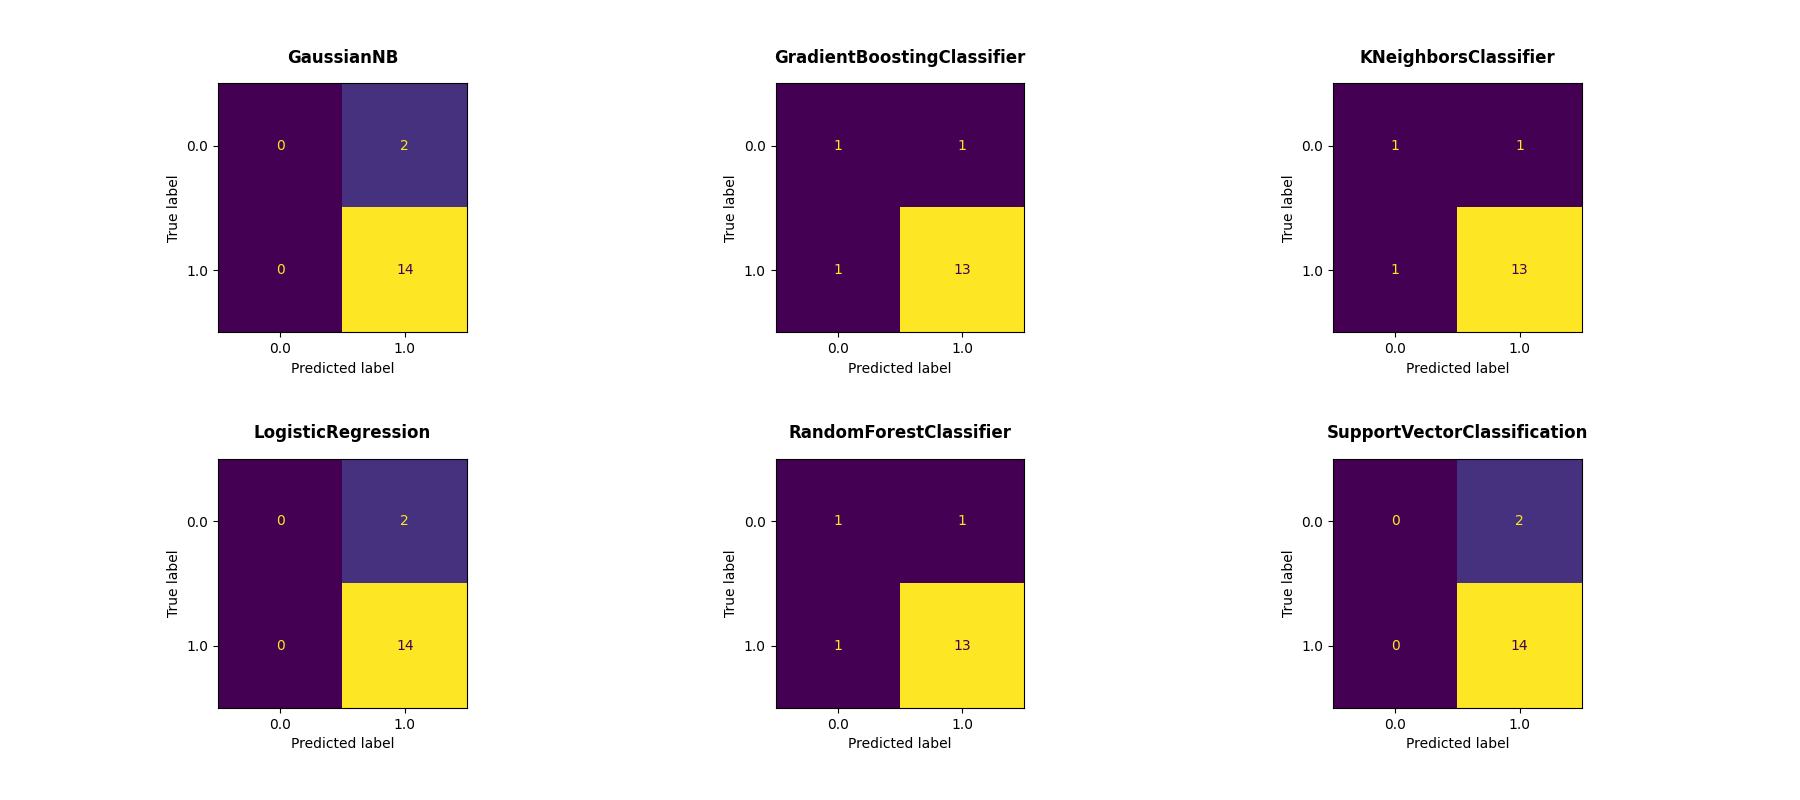
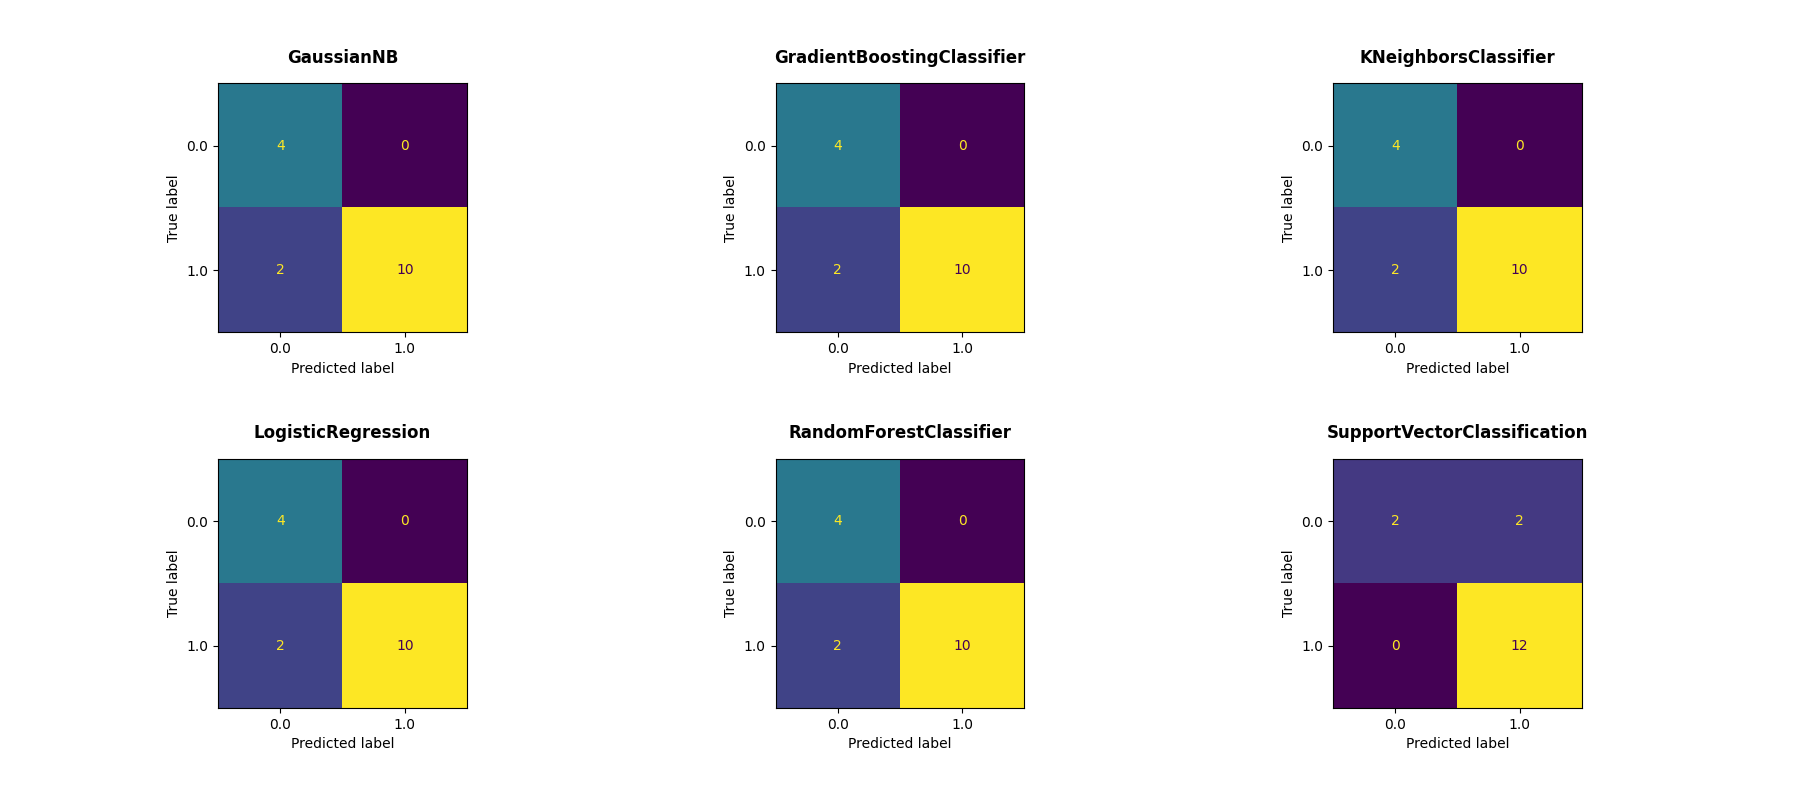
Andando 1 Jun

diff --git a/System/Modules/Mbuilding.py b/System/Modules/Mbuilding.py
@@ -35,17 +35,9 @@ def model_shake(DATA, X_TEST, Y_TEST, TARGET_COLUMN, TARGET_TY, Fast = True):
     if Fast:
         FEATURE_FLAGS = np.array([0,1])
 
-    if TARGET_TY == 'boolean':
-        model_stack = ['RandomForestClassifier', 'LogisticRegression', 'KNeighborsClassifier', 'SupportVectorClassification', 'GradientBoostingClassifier', 'GaussianNB']
-        # NORM_FLAGS = np.array([0])
-    if TARGET_TY == 'classes':
-        model_stack = ['RandomForestClassifier', 'KNeighborsClassifier', 'SupportVectorClassification']   
-        # NORM_FLAGS = np.array([0])
-    if TARGET_TY == 'continuous':
-        # model_stack = ['LinearRegression', 'RandomForestRegressor','QuantileRegressor', 'GradientBoostingRegressor', 'PassiveAggressiveRegressor', 'LassoLars', 'KNeighborsRegressor'] 
-        model_stack = ['LinearRegression', 'SupportVectorMachines', 'RandomForestRegressor','QuantileRegressor', 'GradientBoostingRegressor', 'PassiveAggressiveRegressor', 'LassoLars', 'KNeighborsRegressor'] 
-
-    # NORM_FLAGS = np.array([0]) #dont use normalization just for know
+    if TARGET_TY == 'boolean': model_stack = ['RandomForestClassifier', 'LogisticRegression', 'KNeighborsClassifier', 'SupportVectorClassification', 'GradientBoostingClassifier', 'GaussianNB']
+    if TARGET_TY == 'classes': model_stack = ['RandomForestClassifier', 'KNeighborsClassifier', 'SupportVectorClassification']   
+    if TARGET_TY == 'continuous': model_stack = ['LinearRegression', 'SupportVectorMachines', 'RandomForestRegressor','QuantileRegressor', 'GradientBoostingRegressor', 'PassiveAggressiveRegressor', 'LassoLars', 'KNeighborsRegressor'] 
 
     Feature_methods = ['Intrinsic method','Filter method','Wrapper method']
     Normalization_methods = ['No', 'Min-Max', 'Z-score']
@@ -54,18 +46,12 @@ def model_shake(DATA, X_TEST, Y_TEST, TARGET_COLUMN, TARGET_TY, Fast = True):
     operation_counter = 0
     number_operations = len(FEATURE_FLAGS)*(number_of_splits)*len(model_stack)*len(NORM_FLAGS) + len(FEATURE_FLAGS)*len(model_stack)*len(NORM_FLAGS)
 
-
-    # DATA = DATA.iloc[0:100] ####test CV
-
     X = DATA.loc[:, DATA.columns != TARGET_COLUMN]
     y = DATA[TARGET_COLUMN]
     columns_X = X.columns
 
-
     ### leave one out add ###
 
-
-    # breakpoint()
 
     ### Bootstraping ###  
     min_number_of_samples = 50
@@ -74,23 +60,20 @@ def model_shake(DATA, X_TEST, Y_TEST, TARGET_COLUMN, TARGET_TY, Fast = True):
         X, y = resample(X, y, n_samples=min_number_of_samples, replace=True) 
 
     ### Shuffle ###
-    #only shuffle the data
     X_frag1, X_frag2, y_frag1, y_frag2 = train_test_split(X, y, test_size=0.3, shuffle = True)
     X = np.append(X_frag1, X_frag2, axis=0)
     y = np.append(y_frag1, y_frag2, axis=0)
-    # X[:, 0] = np.arange(1, 101) ####test CV 
-
-##########################################################################
-
 
     ### Step 2: Cross Validation (FIRST STEP)###   
     samples_of_valid = int(len(X)/number_of_splits)
     for shift_idx in range(number_of_splits): 
         print('\nshift_idx '+str(shift_idx))
+
         X_train, X_valid, y_train, y_valid = train_test_split(X, y, test_size=samples_of_valid, random_state=0, shuffle = False)
         if TARGET_TY == 'classes' or TARGET_TY == 'boolean': #quick solve for HDwithCM, solve in general!!!
             y_train = y_train.astype(int)
             y_valid = y_valid.astype(int)
+
         #shift data
         X = np.roll(X, samples_of_valid, axis=0)
         y = np.roll(y, samples_of_valid, axis=0)
@@ -132,8 +115,6 @@ def model_shake(DATA, X_TEST, Y_TEST, TARGET_COLUMN, TARGET_TY, Fast = True):
                                                             number_of_splits, shift_idx, model.score(X_validR, y_valid)] 
     
 
-
-
     # 1 SELECT FEATURES WITH CV (for now i use the set of features with higher Accuracy)
     Feat_best_set = pd.DataFrame(columns = ['Model', 'Normalization method', 'Feature method', 'Best set', 'Importances Custom', 'Score' ])
 
@@ -148,8 +129,7 @@ def model_shake(DATA, X_TEST, Y_TEST, TARGET_COLUMN, TARGET_TY, Fast = True):
                 Feat_best_set.loc[len(Feat_best_set.index)] = [model_nm, Normalization_methods[normFlag_nm],feature_nm, best_set, best_set_importances, best_set_score] 
 
 
-##########################################################################333333
-    
+    #### MODELING AND VALIDATION ####
     # NO CV for modeling and validation -> (we use valid and train) as train and we validate with test 
     X_train = X
     y_train = y
@@ -244,14 +224,19 @@ def model_shake(DATA, X_TEST, Y_TEST, TARGET_COLUMN, TARGET_TY, Fast = True):
                                                              number_of_splits, shift_idx, CoMtx, 
                                                              tpr, fpr, Recall, F1, auc, model.score(X_testR, Y_TEST), brier_score] 
 
+
+
+
+
+    ### RESULTS AND GRAPHS ###
+    fig_FEAT, fig_ROC, fig_CM, fig_score = 0, 0, 0, 0
+
     best_model_res = model_return.loc[model_return.groupby('Model name')['Score'].idxmax()]
-    # feature_data = model_return.loc[model_return.groupby('Model name')['Score'].idxmax()][['Model name', 'Feature selection method', 'Normalization method', 'Features used', 'importances']]
     number_of_models = len(model_stack)  # or any other number
     nrows = 2 if number_of_models > 3 else 1
     ncols = math.ceil(number_of_models / nrows)
 
-
-    fig_features, axs = plt.subplots(nrows, ncols, figsize=(6 * ncols, 4 * nrows))
+    fig_FEAT, axs = plt.subplots(nrows, ncols, figsize=(6 * ncols, 4 * nrows))
     axs = axs.flatten()  # Flatten to get a list: [ax1, ax2, ..., ax6]
 
     for i, ax in enumerate(axs):
@@ -278,18 +263,13 @@ def model_shake(DATA, X_TEST, Y_TEST, TARGET_COLUMN, TARGET_TY, Fast = True):
         ax.set_ylim(0, 1)
         ax.set_ylabel("Importance", fontsize=10)
 
-    fig_features.tight_layout(pad=3.5)
-    plt.savefig('features.png')
-
-    breakpoint()
+    fig_FEAT.tight_layout(pad=3.5)
 
 ##########################################################################
 
 
-    if TARGET_TY == 'boolean':
-        print(colored('\nTable with information of scores of the models:', 'green', attrs=['bold']))
-        print(colored(best_model_res[['Model name', 'Normalization method', 'Feature selection method', 'True Positive Rate', 'False Positive Rate', 'AUC', 'Brier score loss']], 'green'))
- 
+    if TARGET_TY == 'boolean' or TARGET_TY == 'classes':
+
         fig_CM, axs = plt.subplots(nrows, ncols, figsize=(6 * ncols, 4 * nrows))
         axs = axs.flatten()
 
@@ -305,99 +285,48 @@ def model_shake(DATA, X_TEST, Y_TEST, TARGET_COLUMN, TARGET_TY, Fast = True):
             # Title 
             ax.set_title(current_model['Model name'], pad=15, fontsize=12, weight='bold')
 
-        # plt.tight_layout()
         fig_CM.tight_layout(pad=3.5)
-        plt.savefig('CM.png')
-
+    
+        if TARGET_TY == 'boolean':
+            print(colored('\nTable with information of scores of the models:', 'green', attrs=['bold']))
+            print(colored(best_model_res[['Model name', 'Normalization method', 'Feature selection method', 'True Positive Rate', 'False Positive Rate', 'AUC', 'Brier score loss']], 'green'))
  
-        fig_ROC, axs = plt.subplots(nrows, ncols, figsize=(6 * ncols, 4 * nrows))
-        axs = axs.flatten()
+            fig_ROC, axs = plt.subplots(nrows, ncols, figsize=(6 * ncols, 4 * nrows))
+            axs = axs.flatten()
 
-        for i, ax in enumerate(axs[:number_of_models]):
-            current_model = best_model_res.iloc[i]
-            [fpr, tpr, roc_auc] = current_model[['False Positive Rate', 'True Positive Rate', 'AUC']]
-            
-            # ConfusionMatrix plot
-            disp = RocCurveDisplay(fpr=fpr, tpr=tpr, roc_auc=roc_auc)
-            disp.plot(ax=ax) 
+            for i, ax in enumerate(axs[:number_of_models]):
+                current_model = best_model_res.iloc[i]
+                [fpr, tpr, roc_auc] = current_model[['False Positive Rate', 'True Positive Rate', 'AUC']]
+                
+                # ConfusionMatrix plot
+                disp = RocCurveDisplay(fpr=fpr, tpr=tpr, roc_auc=roc_auc)
+                disp.plot(ax=ax) 
 
-            # Title 
-            ax.set_title(current_model['Model name'], pad=15, fontsize=12, weight='bold')
+                # Title 
+                ax.set_title(current_model['Model name'], pad=15, fontsize=12, weight='bold')
 
+            fig_ROC.tight_layout(pad=3.5)
 
-        # plt.tight_layout()
-        fig_ROC.tight_layout(pad=3.5)
-        plt.savefig('ROC.png')
+            fig_score = plt.figure()
+            sns.boxplot(data=model_return, x="Model name", y="AUC")
 
+        # classes
+        else:
+            print(colored('\nTable with information of scores of the models:', 'green', attrs=['bold']))
+            print(colored(best_model_res[['Model name', 'Normalization method', 'Feature selection method', 'True Positive Rate', 'False Positive Rate', 'Score', 'Brier score loss']], 'green'))
 
-        # print(colored('\nThe results for the best model (based in Score):', 'green', attrs=['bold']))
-        # MAX_idx = model_return['Score'].idxmax()
-        # best_model_res = model_return.iloc[MAX_idx]
-
-        # model_idx = 0
-        # fig_CM, axes = plt.subplots(1, len(model_return['Model name'].unique()), sharey='row')
-        # max_curves_per_model = 1
-        # number_of_models = len(model_return['Model name'].unique())
-        # grouped_by_model = model_return.groupby('Model name')
-        # for model_name_loop in model_return['Model name'].unique():
-        #     curve_id = 0
-        #     current_model_data = grouped_by_model.get_group(model_name_loop)
-        #     current_model_data = current_model_data.sort_values(by=['AUC','Score','F1 score'], ascending=False)
-        #     for index, row in current_model_data.iterrows():
-        #         if curve_id < max_curves_per_model:
-
-        #             disp = ConfusionMatrixDisplay(row['Confusion matrix'],
-        #                                         display_labels=list(classes_of_target))
-        #             disp.plot(ax=axes[model_idx], xticks_rotation=45)
-        #             disp.ax_.set_title(model_name_loop, rotation = 15)
-        #             disp.im_.colorbar.remove()
-        #             disp.ax_.set_xlabel('')
+            fig_score = plt.figure()
+            sns.boxplot(data=model_return, x="Model name", y="Score")
 
 
-        #         curve_id = curve_id+1
-        #     model_idx = model_idx+1
-        # plt.tight_layout()
-
-        # number_of_models = len(model_return['Model name'].unique())
-        # grouped_by_model = model_return.groupby('Model name')
-
-        # fig_ROC = plt.figure()
-        # model_idx = 0
-        # max_curves_per_model = 1
-        # # breakpoint()
-        # for model_name_loop in model_return['Model name'].unique():
-        #     curve_id = 0
-        #     current_model_data = grouped_by_model.get_group(model_name_loop)
-        #     current_model_data = current_model_data.sort_values(by=['AUC','Score','F1 score'], ascending=False)
-        #     for index, row in current_model_data.iterrows():
-        #         if curve_id < max_curves_per_model:
-        #             plt.subplot(2,3,model_idx+1)
-        #             plt.plot(row['False Positive Rate'], row['True Positive Rate'], lw=2, label=f'(AUC={row["AUC"]:.2f})', color=colors_plot[0])
-        #             plt.plot([0, 1], [0, 1], color=colors_plot[1], lw=2, linestyle='--')
-        #             plt.xlim([0.0, 1.0])
-        #             plt.ylim([0.0, 1.05])
-        #             plt.xlabel('False Positive R.')
-        #             if model_idx == 0:
-        #                 plt.ylabel('True Positive Rate')
-        #             plt.title(f'{row["Model name"]}', rotation=0)
-        #             plt.legend(loc="lower right")
-        #         curve_id = curve_id+1
-        #     model_idx = model_idx+1
-        # plt.tight_layout()
-
-    if TARGET_TY == 'classes':
+    #recursive
+    else: 
         print(colored('\nTable with information of scores of the models:', 'green', attrs=['bold']))
-        print(colored(model_return[['Target column', 'Target type', 'Model name', 'Normalization method', 'Feature selection method', 'Number of splits', 'Score']].sort_values(by=['Score'], ascending=False).head(20), 'green'))
+        print(colored(best_model_res[['Model name', 'Normalization method', 'Feature selection method', 'True Positive Rate', 'False Positive Rate', 'Score']], 'green'))
 
-        print(colored('\nThe results for the best model (based in Score):', 'green', attrs=['bold']))
-        MAX_idx = model_return['Score'].idxmax()
-        best_model_res = model_return.iloc[MAX_idx]
+        fig_score = plt.figure()
+        sns.boxplot(data=model_return, x="Model name", y="Score")
 
-    if TARGET_TY == 'continuous':
-        print(colored('\nTable with information of scores of the models:', 'green', attrs=['bold']))
-        print(colored(model_return[['Target column', 'Target type', 'Model name', 'Normalization method', 'Feature selection method', 'Number of splits', 'Score']].sort_values(by=['Score'], ascending=False).head(20), 'green'))
-
-    ALL_TRAINED_MODELS = []
-    return model_return, ALL_TRAINED_MODELS, fig_features, fig_ROC, fig_CM
+    return model_return, model_stack, fig_FEAT, fig_CM, fig_ROC, fig_score
 
 

diff --git a/System/Workflow.py b/System/Workflow.py
@@ -46,19 +46,15 @@ def dyn_model_selection(data = pd.DataFrame(), file_selected=-1, column_selected
     X_data, X_test, y_data, y_test = train_test_split(X, y, test_size=0.1, shuffle = True)
     data = pd.concat([y_data, X_data], axis=1)
 
-    model_info, _, fig1, fig2, fig3 = Mbuilding.model_shake(DATA=data, X_TEST=X_test.to_numpy(),  Y_TEST=y_test.to_numpy(), TARGET_COLUMN=target_column, TARGET_TY=target_type, Fast = FAST)
-    model_info = model_info.rename(columns={'Normalization method': 'NM', 'Feature selection method': 'FSM'})
-    sns.lmplot(
-        data=model_info, x="Cross-validation ID", y="Score", row="NM", col="FSM", hue='Model name',
-        palette="crest", ci=None,
-        height=4, scatter_kws={"s": 50, "alpha": 1}
-    )
-    if PLOT and local_file: 
-        plt.show()
-        plt.savefig('Output/accuracy.png')
-        fig1.savefig('Output/features.png')
-        if fig2!=0: fig2.savefig('Output/AUC.png')
-        if fig3!=0: fig3.savefig('Output/MConf.png')
+    model_info, _, fig_feat, fig_cm, fig_roc, fig_score = Mbuilding.model_shake(DATA=data, X_TEST=X_test.to_numpy(),  Y_TEST=y_test.to_numpy(), TARGET_COLUMN=target_column, TARGET_TY=target_type, Fast = FAST)
+    
+    if local_file: 
+        # plt.savefig('Output/accuracy.png')
+        fig_feat.savefig('Output/features.png')
+        if fig_cm!=0: fig_cm.savefig('Output/AUC.png')
+        if fig_roc!=0: fig_roc.savefig('Output/MConf.png')
+        if fig_score!=0: fig_score.savefig('Output/Score.png')
+    if PLOT: plt.show()
 
     return model_info
 

diff --git a/Script.py b/Script.py
@@ -1,7 +1,7 @@
 from System import Workflow
 
 #dynamic system modelation?
-ret = Workflow.dyn_model_selection(FAST = True, PLOT = True, local_file=True)
+ret = Workflow.dyn_model_selection(FAST = True, PLOT = True, local_file=False)
 
                     # plt.figure(figsize=(8, 6))
                     # plt.plot(metrics_result['roc_curve'][0], metrics_result['roc_curve'][1], color='darkorange', lw=2, label=f'ROC curve (AUC = {metrics_result["roc_curve"][2]:.2f})')
